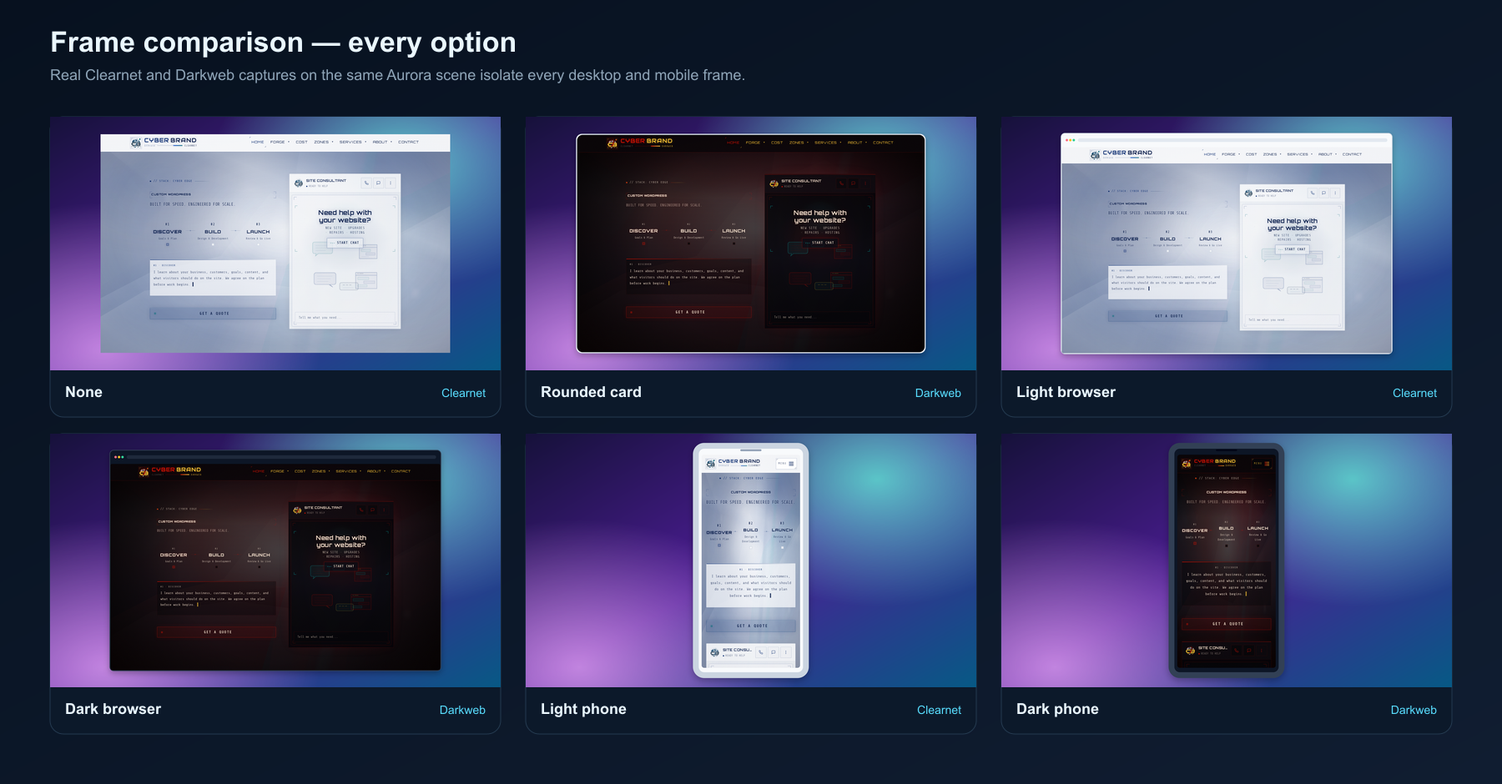
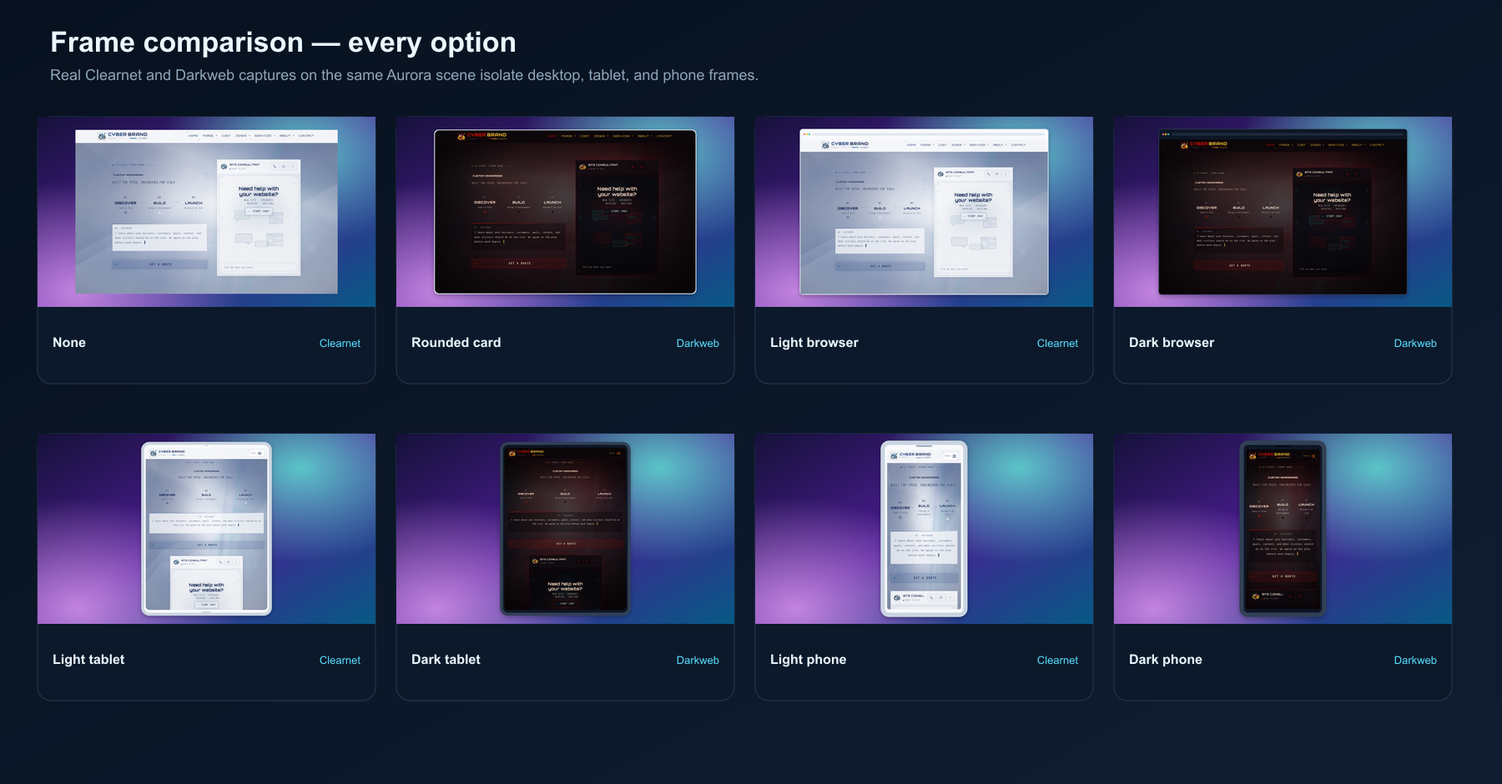
Add tablet presentation frames and screenshots

diff --git a/worker/src/presentation.ts b/worker/src/presentation.ts
@@ -8,7 +8,10 @@ const maximumDimension = 16_384;
 const maximumPixels = 64_000_000;
 
 const scenes: PresentationScene[] = ['clean', 'aurora', 'sunset', 'midnight', 'graphite', 'customSolid'];
-const frames: PresentationFrame[] = ['auto', 'none', 'roundedCard', 'lightBrowser', 'darkBrowser', 'lightPhone', 'darkPhone'];
+const frames: PresentationFrame[] = [
+  'auto', 'none', 'roundedCard', 'lightBrowser', 'darkBrowser',
+  'lightTablet', 'darkTablet', 'lightPhone', 'darkPhone',
+];
 const aspects: PresentationAspect[] = ['auto', '16:9', '4:3', 'square'];
 const paddings: PresentationPadding[] = ['compact', 'balanced', 'generous'];
 const shadows: PresentationShadow[] = ['none', 'soft', 'strong'];
@@ -61,11 +64,14 @@ function bounded(value: number, minimum: number, maximum: number): number {
   return Math.max(minimum, Math.min(maximum, Math.round(value)));
 }
 
-function resolveFrame(frame: PresentationFrame, viewport: Pick<Viewport, 'mobile'>,
+type PresentationViewport = Pick<Viewport, 'mobile' | 'width' | 'height'>;
+
+function resolveFrame(frame: PresentationFrame, viewport: PresentationViewport,
                       captureMode: CaptureMode): ResolvedFrame {
   if (frame !== 'auto') return frame;
   if (captureMode === 'fullPage' || captureMode === 'element') return 'roundedCard';
-  return viewport.mobile ? 'darkPhone' : 'lightBrowser';
+  if (!viewport.mobile) return 'lightBrowser';
+  return Math.min(viewport.width, viewport.height) >= 600 ? 'darkTablet' : 'darkPhone';
 }
 
 function ratioFor(aspect: PresentationAspect): number | undefined {
@@ -76,7 +82,7 @@ function ratioFor(aspect: PresentationAspect): number | undefined {
 }
 
 export function planPresentation(width: number, height: number, settingsValue: Partial<PresentationSettings>,
-                                 viewport: Pick<Viewport, 'mobile'>, captureMode: CaptureMode): PresentationPlan {
+                                 viewport: PresentationViewport, captureMode: CaptureMode): PresentationPlan {
   if (!Number.isFinite(width) || !Number.isFinite(height) || width < 1 || height < 1) {
     throw new Error('Presentation source has invalid dimensions');
   }
@@ -98,6 +104,11 @@ export function planPresentation(width: number, height: number, settingsValue: P
     frameTop = bounded(width * 0.042, 42, 76);
     frameBottom = frameSide;
     cornerRadius = bounded(width * 0.012, 12, 24);
+  } else if (resolvedFrame.endsWith('Tablet')) {
+    frameSide = bounded(width * 0.025, 14, 32);
+    frameTop = bounded(width * 0.035, 18, 40);
+    frameBottom = frameTop;
+    cornerRadius = bounded(width * 0.055, 24, 52);
   } else if (resolvedFrame.endsWith('Phone')) {
     frameSide = bounded(width * 0.058, 18, 42);
     frameTop = bounded(width * 0.09, 28, 58);
@@ -166,6 +177,7 @@ function renderSvg(plan: PresentationPlan, settings: PresentationSettings): Buff
   const { definitions, fill, accents } = sceneDefinitions(settings.scene, settings.solidColor);
   const dark = plan.resolvedFrame.startsWith('dark');
   const phone = plan.resolvedFrame.endsWith('Phone');
+  const tablet = plan.resolvedFrame.endsWith('Tablet');
   const browser = plan.resolvedFrame.endsWith('Browser');
   const frameFill = dark ? '#111827' : '#F8FAFC';
   const border = dark ? '#334155' : '#CBD5E1';
@@ -189,6 +201,13 @@ function renderSvg(plan: PresentationPlan, settings: PresentationSettings): Buff
     const pillWidth = Math.min(plan.frameWidth * 0.32, plan.frameTop * 2.4);
     const pillHeight = Math.max(3, plan.frameTop * 0.22);
     frame += `<rect x="${plan.frameX + (plan.frameWidth - pillWidth) / 2}" y="${plan.frameY + (plan.frameTop - pillHeight) / 2}" width="${pillWidth}" height="${pillHeight}" rx="${pillHeight / 2}" fill="${dark ? '#020617' : '#94A3B8'}"/>`;
+  } else if (tablet) {
+    const cameraRadius = Math.max(2, Math.min(5, plan.frameTop * 0.12));
+    const indicatorWidth = Math.min(plan.frameWidth * 0.14, plan.frameBottom * 2.2);
+    const indicatorHeight = Math.max(2, plan.frameBottom * 0.11);
+    const hardwareFill = dark ? '#020617' : '#94A3B8';
+    frame += `<circle cx="${plan.frameX + plan.frameWidth / 2}" cy="${plan.frameY + plan.frameTop / 2}" r="${cameraRadius}" fill="${hardwareFill}"/>`;
+    frame += `<rect x="${plan.frameX + (plan.frameWidth - indicatorWidth) / 2}" y="${plan.frameY + plan.frameHeight - (plan.frameBottom + indicatorHeight) / 2}" width="${indicatorWidth}" height="${indicatorHeight}" rx="${indicatorHeight / 2}" fill="${hardwareFill}"/>`;
   }
   return Buffer.from(`<svg xmlns="http://www.w3.org/2000/svg" width="${plan.canvasWidth}" height="${plan.canvasHeight}" viewBox="0 0 ${plan.canvasWidth} ${plan.canvasHeight}"><defs>${definitions}${shadow}</defs><rect width="100%" height="100%" fill="${fill}"/>${accents}${frame}</svg>`);
 }
@@ -202,7 +221,7 @@ export interface PresentationResult {
 }
 
 export async function renderPresentation(png: Buffer, settingsValue: Partial<PresentationSettings>,
-                                         viewport: Pick<Viewport, 'mobile'>,
+                                         viewport: PresentationViewport,
                                          captureMode: CaptureMode): Promise<PresentationResult> {
   const metadata = await sharp(png).metadata();
   if (!metadata.width || !metadata.height) throw new Error('Could not read screenshot dimensions for presentation styling');
@@ -210,7 +229,8 @@ export async function renderPresentation(png: Buffer, settingsValue: Partial<Pre
   const plan = planPresentation(metadata.width, metadata.height, settings, viewport, captureMode);
   let screenshot = sharp(png).ensureAlpha().resize(plan.screenshotWidth, plan.screenshotHeight, { fit: 'fill' });
   const screenshotRadius = plan.resolvedFrame === 'none' ? 0
-    : plan.resolvedFrame.endsWith('Phone') ? Math.max(2, plan.cornerRadius - plan.frameSide)
+    : plan.resolvedFrame.endsWith('Phone') || plan.resolvedFrame.endsWith('Tablet')
+      ? Math.max(2, plan.cornerRadius - plan.frameSide)
       : plan.resolvedFrame === 'roundedCard' ? plan.cornerRadius : Math.max(2, Math.floor(plan.cornerRadius * 0.45));
   if (screenshotRadius > 0) {
     const mask = Buffer.from(`<svg xmlns="http://www.w3.org/2000/svg" width="${plan.screenshotWidth}" height="${plan.screenshotHeight}"><rect width="100%" height="100%" rx="${screenshotRadius}" fill="#fff"/></svg>`);

diff --git a/site/index.html b/site/index.html
@@ -109,7 +109,7 @@
           <div class="feature-icon">⌘</div><h3>Real browser rendering</h3><p>Use Chromium, Firefox, or WebKit through Playwright. Start with one dependable engine or create alternate renders when a project calls for them.</p>
         </article>
         <article class="feature-card feature-wide feature-formats">
-          <div><div class="feature-icon">◇</div><h3>Portfolio scenes, frames, and canvases</h3><p>Keep the untouched screenshot and automatically create a polished copy with a generated background, browser or phone frame, deliberate spacing, shadow, and a 16:9, 4:3, square, or content-fit canvas.</p></div>
+          <div><div class="feature-icon">◇</div><h3>Portfolio scenes, frames, and canvases</h3><p>Keep the untouched screenshot and automatically create a polished copy with a generated background, browser, tablet, or phone frame, deliberate spacing, shadow, and a 16:9, 4:3, square, or content-fit canvas.</p></div>
           <picture class="portfolio-preview"><source srcset="assets/screenshots/portfolio-aurora-browser.webp" type="image/webp"><img src="assets/screenshots/portfolio-aurora-browser.png" alt="CYBER BRAND Darkweb screenshot presented on an Aurora background in a dark browser frame" width="1968" height="1107" loading="lazy"></picture>
         </article>
       </div>
@@ -121,12 +121,12 @@
         <div class="section-heading centered">
           <div class="eyebrow"><span></span> Built-in presentation studio</div>
           <h2>One capture. A whole visual language.</h2>
-          <p>Pick a restrained clean canvas, a vivid gradient, dark browser chrome, a rounded card, or mobile hardware. Every example below was produced locally from real <a href="https://cyberbrand.net/" target="_blank" rel="noopener">CYBER BRAND</a> Clearnet and Darkweb captures.</p>
+          <p>Pick a restrained clean canvas, a vivid gradient, dark browser chrome, a rounded card, or tablet and phone hardware. Every example below was produced locally from real <a href="https://cyberbrand.net/" target="_blank" rel="noopener">CYBER BRAND</a> Clearnet and Darkweb captures.</p>
         </div>
         <div class="presentation-showcase">
           <button class="showcase-shot scene-gallery" type="button" data-image="assets/screenshots/portfolio-scene-gallery.png" data-alt="Real CYBER BRAND Clearnet and Darkweb captures across six CyberSnapper portfolio scenes"><picture><source srcset="assets/screenshots/portfolio-scene-gallery.webp" type="image/webp"><img src="assets/screenshots/portfolio-scene-gallery.png" alt="Real CYBER BRAND Clearnet and Darkweb captures across six CyberSnapper portfolio scenes" width="1800" height="940" loading="lazy"></picture><span>Six styles using real Clearnet and Darkweb captures. Click to enlarge.</span></button>
           <button class="showcase-shot settings-shot" type="button" data-image="assets/screenshots/app-presentation.png" data-alt="CyberSnapper Presentation profile editor with scene, frame, canvas, padding, and shadow controls"><picture><source srcset="assets/screenshots/app-presentation.webp" type="image/webp"><img src="assets/screenshots/app-presentation.png" alt="CyberSnapper Presentation profile editor with scene, frame, canvas, padding, and shadow controls" width="780" height="620" loading="lazy"></picture><span>Every choice is explicit, reusable, and saved with the profile.</span></button>
-          <button class="showcase-shot frame-gallery" type="button" data-image="assets/screenshots/portfolio-frame-gallery.png" data-alt="CYBER BRAND Clearnet and Darkweb frame comparison showing no frame, rounded card, light and dark browser, and light and dark phone"><picture><source srcset="assets/screenshots/portfolio-frame-gallery.webp" type="image/webp"><img src="assets/screenshots/portfolio-frame-gallery.png" alt="CYBER BRAND Clearnet and Darkweb frame comparison showing no frame, rounded card, light and dark browser, and light and dark phone" width="1800" height="940" loading="lazy"></picture><span>Every frame option using matching Clearnet and Darkweb desktop/mobile captures. Click to enlarge.</span></button>
+          <button class="showcase-shot frame-gallery" type="button" data-image="assets/screenshots/portfolio-frame-gallery.png" data-alt="CYBER BRAND Clearnet and Darkweb frame comparison showing no frame, rounded card, and light and dark browser, tablet, and phone frames"><picture><source srcset="assets/screenshots/portfolio-frame-gallery.webp" type="image/webp"><img src="assets/screenshots/portfolio-frame-gallery.png" alt="CYBER BRAND Clearnet and Darkweb frame comparison showing no frame, rounded card, and light and dark browser, tablet, and phone frames" width="1800" height="940" loading="lazy"></picture><span>Every frame option using matching Clearnet and Darkweb desktop, tablet, and mobile captures. Click to enlarge.</span></button>
         </div>
       </div>
     </section>
@@ -139,7 +139,7 @@
         </div>
         <ol class="workflow">
           <li><b>01</b><div><h3>Add your work</h3><p>Paste one or more website URLs, or save a labeled target set for the projects and pages you capture repeatedly.</p></div></li>
-          <li><b>02</b><div><h3>Choose the presentation</h3><p>Select full-page, viewport, or element capture; add the exact desktop and mobile sizes; then choose formats, scene, frame, canvas, and clean-up rules.</p></div></li>
+          <li><b>02</b><div><h3>Choose the presentation</h3><p>Select full-page, viewport, or element capture; add the exact desktop, tablet, and mobile sizes; then choose formats, scene, frame, canvas, and clean-up rules.</p></div></li>
           <li><b>03</b><div><h3>Capture and publish</h3><p>Run the batch once. Open the finished files from History and drop the consistent image set into your portfolio, case study, or client gallery.</p></div></li>
         </ol>
       </div>

diff --git a/worker/src/protocol.ts b/worker/src/protocol.ts
@@ -2,7 +2,8 @@ export type BrowserEngine = 'chromium' | 'firefox' | 'webkit';
 export type OutputFormat = 'png' | 'webp' | 'avif' | 'pdf';
 export type CaptureMode = 'fullPage' | 'viewport' | 'element';
 export type PresentationScene = 'clean' | 'aurora' | 'sunset' | 'midnight' | 'graphite' | 'customSolid';
-export type PresentationFrame = 'auto' | 'none' | 'roundedCard' | 'lightBrowser' | 'darkBrowser' | 'lightPhone' | 'darkPhone';
+export type PresentationFrame = 'auto' | 'none' | 'roundedCard' | 'lightBrowser' | 'darkBrowser' |
+  'lightTablet' | 'darkTablet' | 'lightPhone' | 'darkPhone';
 export type PresentationAspect = 'auto' | '16:9' | '4:3' | 'square';
 export type PresentationPadding = 'compact' | 'balanced' | 'generous';
 export type PresentationShadow = 'none' | 'soft' | 'strong';

diff --git a/native/src/gui/MainWindow.cpp b/native/src/gui/MainWindow.cpp
@@ -1490,7 +1490,7 @@ QWidget *MainWindow::buildHelpPage() {
 
     <h2>Portfolio presentation</h2>
     <p><b>Portfolio style</b> creates a second, presentation-ready copy of every PNG, WebP, or AVIF while always preserving the original. Choose a background scene on Capture, then use <b>Customize</b> or Manage → Presentation for the canvas ratio, padding, shadow, and frame.</p>
-    <p><b>Auto frame</b> uses phone hardware for mobile viewport captures, browser chrome for desktop viewport captures, and a rounded card for full-page or element captures. Fixed 16:9, 4:3, and square canvases expand the background without cropping or enlarging the screenshot. Styled files end in <code>-portfolio</code> and are not used as visual-comparison baselines.</p>
+    <p><b>Auto frame</b> uses tablet hardware for mobile-mode viewport captures whose shorter CSS dimension is at least 600 px, phone hardware for smaller mobile-mode captures, browser chrome for other viewport captures, and a rounded card for full-page or element captures. Fixed 16:9, 4:3, and square canvases expand the background without cropping or enlarging the screenshot. Styled files end in <code>-portfolio</code> and are not used as visual-comparison baselines.</p>
 
     <h2>Visual comparison</h2>
     <p>Select a non-PDF file in History and choose <b>Set as Baseline</b>, or accept a missing-baseline item in Review. Enable comparison in a capture profile. Future captures are matched by URL, browser, viewport, mode, and format. Review provides triage, notes, batch actions, synchronized side-by-side inspection, overlay, wipe, generated difference, and baseline management.</p>
@@ -2409,7 +2409,8 @@ void MainWindow::openProfileManager() {
   auto *frame = new QComboBox;
   frame->addItem("Auto — match the capture", "auto"); frame->addItem("None", "none");
   frame->addItem("Rounded card", "roundedCard"); frame->addItem("Light browser", "lightBrowser");
-  frame->addItem("Dark browser", "darkBrowser"); frame->addItem("Light phone", "lightPhone");
+  frame->addItem("Dark browser", "darkBrowser"); frame->addItem("Light tablet", "lightTablet");
+  frame->addItem("Dark tablet", "darkTablet"); frame->addItem("Light phone", "lightPhone");
   frame->addItem("Dark phone", "darkPhone");
   frame->setCurrentIndex(qMax(0, frame->findData(presentationSource.value("frame").toString("auto"))));
   auto *aspect = new QComboBox;
@@ -2433,7 +2434,7 @@ void MainWindow::openProfileManager() {
   presentationForm->addRow("Shadow", shadow);
   presentationForm->addRow("Custom solid color", solidColor);
   presentationForm->addRow(presentationSummary);
-  presentationForm->addRow(helperText("Auto uses a phone frame for mobile viewport captures, browser chrome for desktop viewport captures, and a rounded card for full-page or element captures. Fixed canvas ratios expand the background and never crop the screenshot. PDF output is unchanged."));
+  presentationForm->addRow(helperText("Auto uses a tablet frame when Mobile mode is on and the viewport's shorter CSS dimension is at least 600 px, a phone frame for smaller mobile viewports, browser chrome for other viewport captures, and a rounded card for full-page or element captures. Fixed canvas ratios expand the background and never crop the screenshot. PDF output is unchanged."));
   tabs->addTab(presentationPage, "Presentation");
   if (qEnvironmentVariable("CYBERSNAPPER_UI_SCENE").compare("presentation", Qt::CaseInsensitive) == 0) {
     tabs->setCurrentWidget(presentationPage);

diff --git a/native/tests/DocFixture.cpp b/native/tests/DocFixture.cpp
@@ -78,12 +78,13 @@ DiffResult drawDiff(const QString &baselinePath, const QString &currentPath, con
 
 QJsonObject artifact(const QString &id, const QString &relativePath, const QString &viewport,
                      const QString &engine = "chromium", const QString &status = "succeeded") {
+  const int width = viewport == "Mobile" ? 390 : viewport == "Tablet" ? 768 : 1440;
+  const int height = viewport == "Mobile" ? 844 : viewport == "Tablet" ? 1024 : 900;
   return {{"id", id}, {"url", ShowcaseUrl}, {"engine", engine}, {"viewportId", viewport.toLower()},
           {"targetId", "home"}, {"targetName", "Homepage"}, {"targetSetId", "target-set-production"},
           {"targetSetName", "Production site"},
           {"viewportName", viewport}, {"captureMode", "fullPage"}, {"format", "png"},
-          {"relativePath", relativePath}, {"width", viewport == "Mobile" ? 390 : 1440},
-          {"height", viewport == "Mobile" ? 844 : 900}, {"sha256", id + "-fixture"},
+          {"relativePath", relativePath}, {"width", width}, {"height", height}, {"sha256", id + "-fixture"},
           {"status", status}, {"error", status == "failed" ? "Navigation timed out" : QString{}},
           {"createdAt", utcNow()}};
 }
@@ -135,7 +136,7 @@ int main(int argc, char **argv) {
   profile.blockPopups = true;
   profile.presentation.enabled = true;
   profile.presentation.scene = "aurora";
-  profile.presentation.frame = "auto";
+  profile.presentation.frame = "darkTablet";
   profile.presentation.aspect = "16:9";
   profile.presentation.padding = "balanced";
   profile.presentation.shadow = "soft";
@@ -153,12 +154,14 @@ int main(int argc, char **argv) {
 
   const QString baseRelative = "captures/showcase/baseline.png";
   const QString currentRelative = "captures/showcase/current.png";
+  const QString tabletRelative = "captures/showcase/tablet-dark.png";
   const QString mobileRelative = "captures/showcase/mobile-dark.png";
   const QString diffRelative = "captures/showcase/difference.png";
   const QString baselinePath = QDir(root).filePath(baseRelative);
   const QString currentPath = QDir(root).filePath(currentRelative);
   if (!copySourceCapture("cyberbrand-light-desktop.png", baselinePath) ||
       !copySourceCapture("cyberbrand-dark-desktop.png", currentPath) ||
+      !copySourceCapture("cyberbrand-dark-tablet.png", QDir(root).filePath(tabletRelative)) ||
       !copySourceCapture("cyberbrand-dark-mobile.png", QDir(root).filePath(mobileRelative))) {
     return fail("could not copy CYBER BRAND source captures");
   }
@@ -167,7 +170,7 @@ int main(int argc, char **argv) {
 
   if (!addJob(store, profile, "job-api-failure", "api", "failed", 0, 1, {}, "DNS lookup failed")) return fail("could not add API job");
   if (!addJob(store, profile, "job-weekday-schedule", "schedule:weekday", "succeeded", 12, 0,
-              {artifact("artifact-schedule", currentRelative, "Tablet", "firefox")})) return fail("could not add scheduled job");
+              {artifact("artifact-schedule", tabletRelative, "Tablet", "firefox")})) return fail("could not add scheduled job");
   if (!addJob(store, profile, "job-partial", "gui", "partial", 5, 1,
               {artifact("artifact-partial", mobileRelative, "Mobile"),
                artifact("artifact-timeout", "captures/showcase/missing.png", "Desktop", "firefox", "failed")},

diff --git a/native/tests/TestCore.cpp b/native/tests/TestCore.cpp
@@ -46,6 +46,13 @@ void TestCore::profileNormalization() {
   QCOMPARE(profile.presentation.shadow, QString("soft"));
   QCOMPARE(profile.presentation.solidColor, QString("#0B1220"));
   QCOMPARE(toJson(profile).value("presentation").toObject().value("enabled").toBool(), true);
+
+  for (const QString &tabletFrame : {QString("lightTablet"), QString("darkTablet")}) {
+    const CaptureProfile tabletProfile = profileFromJson({
+        {"presentation", QJsonObject{{"frame", tabletFrame}}}});
+    QCOMPARE(tabletProfile.presentation.frame, tabletFrame);
+    QCOMPARE(toJson(tabletProfile).value("presentation").toObject().value("frame").toString(), tabletFrame);
+  }
 }
 
 void TestCore::projectPersistence() {

diff --git a/native/src/core/Models.cpp b/native/src/core/Models.cpp
@@ -46,7 +46,7 @@ PresentationSettings presentationFromJson(const QJsonValue &value) {
     settings.scene = "aurora";
   }
   settings.frame = object.value("frame").toString(settings.frame);
-  if (!QStringList{"auto", "none", "roundedCard", "lightBrowser", "darkBrowser", "lightPhone", "darkPhone"}.contains(settings.frame)) {
+  if (!QStringList{"auto", "none", "roundedCard", "lightBrowser", "darkBrowser", "lightTablet", "darkTablet", "lightPhone", "darkPhone"}.contains(settings.frame)) {
     settings.frame = "auto";
   }
   settings.aspect = object.value("aspect").toString(settings.aspect);

diff --git a/README.md b/README.md
@@ -43,7 +43,7 @@ Every release includes SHA-256 checksums and GitHub build-provenance attestation
 - Capture full scrolling pages, exact viewports, or one CSS-selected element.
 - Produce desktop, tablet, mobile, and custom-sized images together with explicit pixel density and mobile-browser controls.
 - Wait for pages to settle, block common overlays, and hide chosen elements so banners and animation do not spoil the shot.
-- Create portfolio-ready copies with Clean, Aurora, Sunset, Midnight, Graphite, or custom-solid scenes; add browser, phone, or rounded-card frames; and target 16:9, 4:3, square, or content-fit canvases.
+- Create portfolio-ready copies with Clean, Aurora, Sunset, Midnight, Graphite, or custom-solid scenes; add browser, tablet, phone, or rounded-card frames; and target 16:9, 4:3, square, or content-fit canvases.
 - Save labeled target sets for all the projects and pages in a portfolio, then recapture them as one batch.
 - Export PNG, WebP, AVIF, and Chromium PDF with collision-safe names into ordinary folders.
 - Render through Chromium, Firefox, or WebKit and keep a searchable history of every resulting file.
@@ -55,19 +55,19 @@ Visual comparison, baselines, recurring schedules, retries, the native CLI, and 
 Turn on **Portfolio style** to save two files for each raster capture: the untouched original and a polished `-portfolio` copy. Scenes and frames are rendered locally with vector graphics—there is no upload, account, template service, or downloaded mockup pack.
 
 - Backgrounds: Clean, Aurora, Sunset, Midnight, Graphite, and a custom `#RRGGBB` solid color.
-- Frames: automatic, none, rounded card, light/dark browser, and light/dark phone.
+- Frames: automatic, none, rounded card, light/dark browser, light/dark tablet, and light/dark phone.
 - Canvases: fit content, 16:9, 4:3, and square, with compact, balanced, or generous padding.
 - Shadows: none, soft, or strong.
 
-Automatic framing understands the capture: mobile viewports receive a phone frame, desktop viewports receive browser chrome, and full-page or element captures receive a rounded card. Fixed ratios only expand the background—they never crop or upscale the screenshot. Original files remain the source for visual comparison.
+Automatic framing understands the capture: mobile-mode viewports at least 600 CSS pixels across their shorter dimension receive a tablet frame, smaller mobile-mode viewports receive a phone frame, other viewport captures receive browser chrome, and full-page or element captures receive a rounded card. Fixed ratios only expand the background—they never crop or upscale the screenshot. Original files remain the source for visual comparison.
 
 ![Six portfolio presentation combinations using real CYBER BRAND Clearnet and Darkweb captures](docs/images/portfolio-scene-gallery.png)
 
 ### Frame comparison
 
-These are the actual six explicit frame choices, demonstrated with real light and dark captures of [cyberbrand.net](https://cyberbrand.net/). **Auto** selects among them based on the capture: browser chrome for desktop viewports, phone hardware for mobile viewports, and a rounded card for full-page or element captures.
+These are the actual eight explicit frame choices, demonstrated with real light and dark captures of [cyberbrand.net](https://cyberbrand.net/). **Auto** selects among them based on the capture: browser chrome for desktop viewports, tablet hardware for larger mobile-mode viewports, phone hardware for smaller mobile-mode viewports, and a rounded card for full-page or element captures.
 
-![CyberSnapper frame comparison showing no frame, rounded card, light browser, dark browser, light phone, and dark phone](docs/images/portfolio-frame-gallery.png)
+![CyberSnapper frame comparison showing no frame, rounded card, and light and dark browser, tablet, and phone frames](docs/images/portfolio-frame-gallery.png)
 
 | Presentation settings | Finished `-portfolio` file |
 | --- | --- |

diff --git a/docs/BUILDING.md b/docs/BUILDING.md
@@ -27,7 +27,7 @@ npm run build:site
 
 The screenshot source files are written to `docs/images/`. The Pages build is staged and validated under `build/pages/`; all temporary configuration, database, socket, and preview state stays under `build/test-runtime/`.
 
-To intentionally refresh the four committed CYBER BRAND desktop/mobile source captures from `https://cyberbrand.net/`, run `npm run screenshots:sources`. That explicit command is the only documentation step that requires network access; it fixes the site theme and pauses motion before capture. Review the resulting light and dark images before regenerating `docs/images/`.
+To intentionally refresh the six committed CYBER BRAND desktop/tablet/mobile source captures from `https://cyberbrand.net/`, run `npm run screenshots:sources`. That explicit command is the only documentation step that requires network access; it fixes the site theme and pauses motion before capture. Review the resulting light and dark images before regenerating `docs/images/`.
 
 On Linux, the screenshot command uses Qt's offscreen platform automatically. If the host applies a local-socket sandbox, grant the command permission to create its isolated IPC socket while keeping its filesystem state inside the repository.
 

diff --git a/docs/API.md b/docs/API.md
@@ -73,7 +73,7 @@ Profiles may enable local portfolio rendering with:
 }
 ```
 
-Supported scenes are `clean`, `aurora`, `sunset`, `midnight`, `graphite`, and `customSolid`. Frames are `auto`, `none`, `roundedCard`, `lightBrowser`, `darkBrowser`, `lightPhone`, and `darkPhone`; aspects are `auto`, `16:9`, `4:3`, and `square`. Each non-PDF artifact produces an `original` plus a `portfolio` variant when enabled.
+Supported scenes are `clean`, `aurora`, `sunset`, `midnight`, `graphite`, and `customSolid`. Frames are `auto`, `none`, `roundedCard`, `lightBrowser`, `darkBrowser`, `lightTablet`, `darkTablet`, `lightPhone`, and `darkPhone`; aspects are `auto`, `16:9`, `4:3`, and `square`. For viewport captures, automatic framing uses tablet hardware when Mobile mode is enabled and the shorter CSS dimension is at least 600 px, phone hardware for smaller mobile-mode viewports, and browser chrome otherwise. Each non-PDF artifact produces an `original` plus a `portfolio` variant when enabled.
 
 To capture a reusable set, send `"targetSetId":"…"` instead of `urls`. The agent resolves enabled targets once and stores their IDs, labels, URLs, order, and set identity with the job. Later edits to the reusable set do not alter that run or its retries.
 
